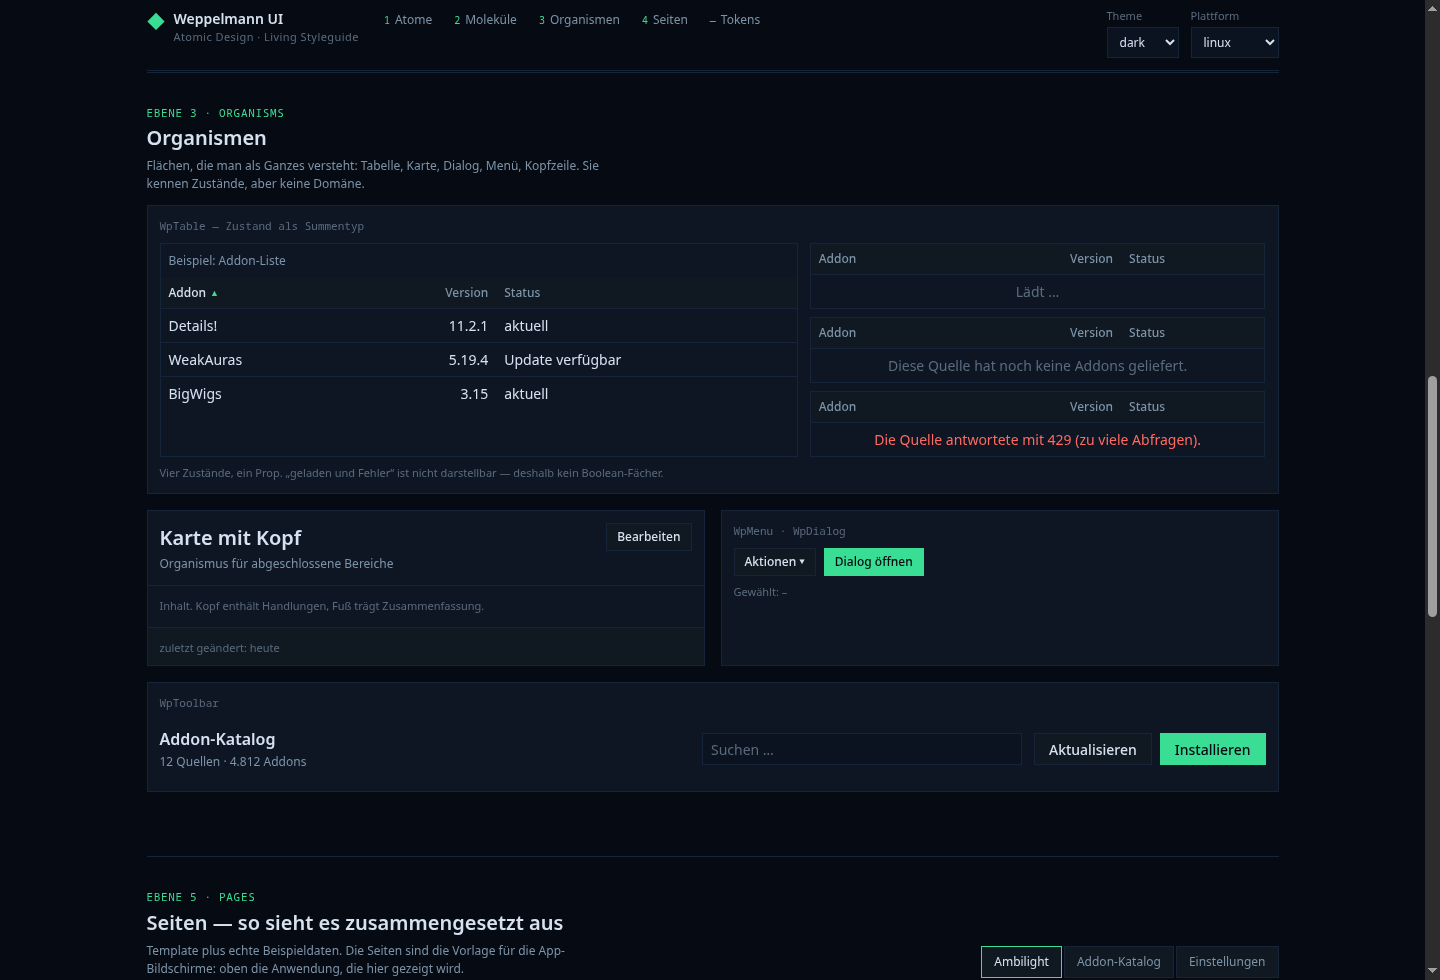
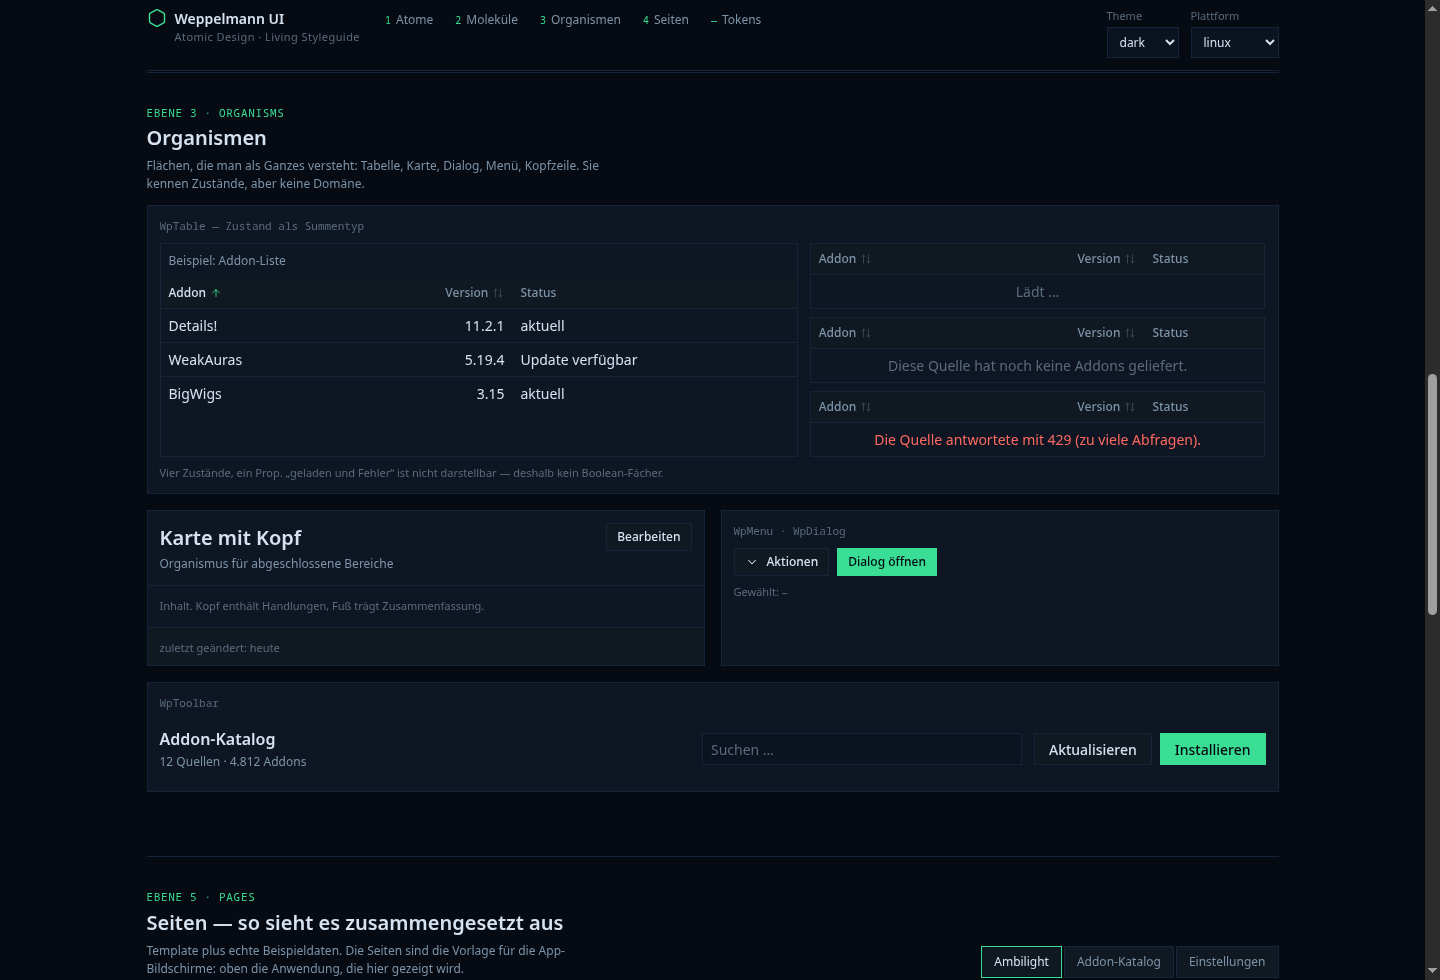
Switch: Knopf über left positioniert, Screenshots der Ebenen erneuert

diff --git a/packages/components/src/atoms/WpSwitch.vue b/packages/components/src/atoms/WpSwitch.vue
@@ -23,14 +23,18 @@ defineEmits<{ "update:modelValue": [value: boolean] }>();
 .wp-switch { display: inline-flex; align-items: center; gap: var(--wp-space-2); cursor: pointer; }
 .wp-switch__input { position: absolute; opacity: 0; width: 0; height: 0; }
 .wp-switch__track {
-  width: 34px; height: 18px; background: var(--wp-color-bg-input);
+  position: relative; width: 34px; height: 18px; flex: none;
+  background: var(--wp-color-bg-input);
   border: var(--wp-size-border) solid var(--wp-color-border-subtle);
-  display: inline-flex; align-items: center; padding: 2px;
   transition: background var(--wp-duration-fast), border-color var(--wp-duration-fast);
 }
-.wp-switch__knob { width: 12px; height: 12px; background: var(--wp-color-text-faint); transition: transform var(--wp-duration-fast), background var(--wp-duration-fast); }
+.wp-switch__knob {
+  position: absolute; left: 2px; top: 2px; width: 12px; height: 12px;
+  background: var(--wp-color-text-faint);
+  transition: left var(--wp-duration-fast), background var(--wp-duration-fast);
+}
 .wp-switch__input:checked + .wp-switch__track { background: var(--wp-color-accent-default); border-color: var(--wp-color-accent-default); }
-.wp-switch__input:checked + .wp-switch__track .wp-switch__knob { transform: translateX(16px); background: var(--wp-color-text-on-accent); }
+.wp-switch__input:checked + .wp-switch__track .wp-switch__knob { left: 18px; background: var(--wp-color-text-on-accent); }
 .wp-switch__input:focus-visible + .wp-switch__track { outline: var(--wp-size-focus) solid var(--wp-color-focus-ring); outline-offset: 2px; }
 .wp-switch__label { font-size: var(--wp-font-size-md); }
 .wp-switch.is-disabled { opacity: 0.55; cursor: default; }
